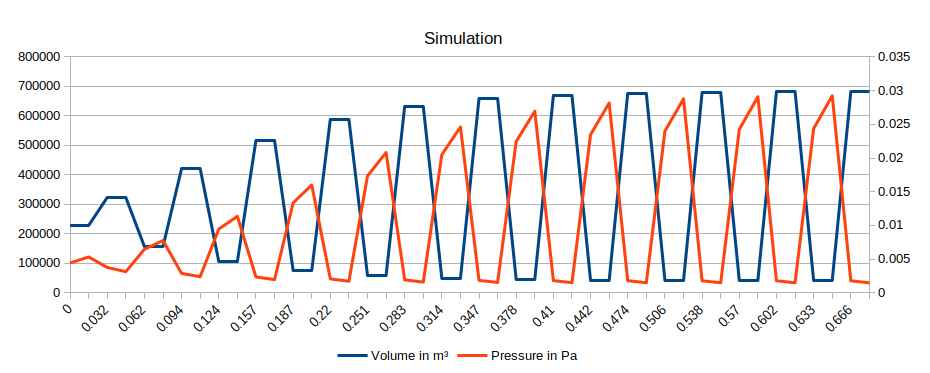
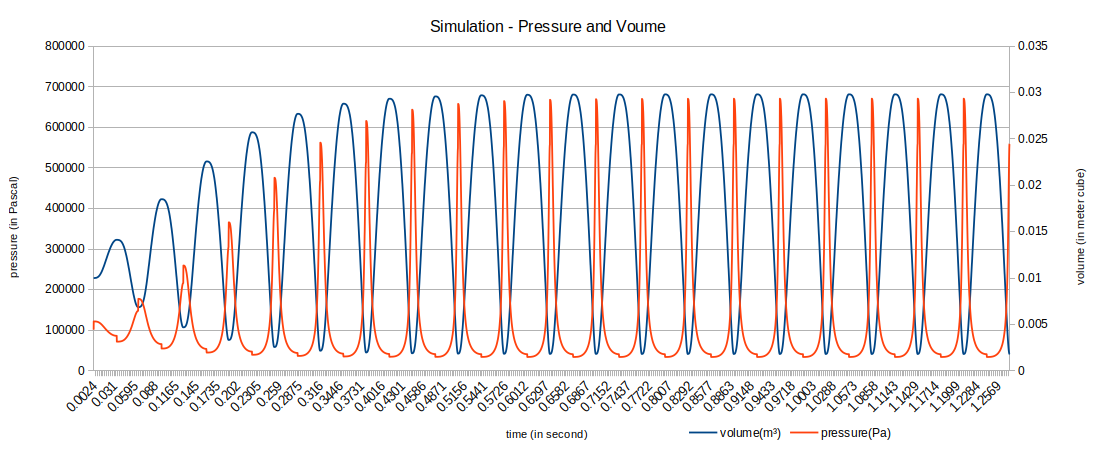
Add print facility in Quasi equilibrium Processes
This print can be enabled from client code when ever needed and disabled
The control for enabling this extra prints is done via setting extern
variable called 'print_quasi_equilibrium_values'.
Additional Quasi equilibrium state's pressure and volume values over
time can be used to plot smooth curve and
also the PV graph for one cycle.

Changed region(s): [[0.0, 0.0295, 0.9978, 0.9732]]

diff --git a/thermodyn_helper.c b/thermodyn_helper.c
@@ -13,6 +13,12 @@
 #define EQUILIBRIUM_PRESSURE 101325       /* Pa or pascal */
 
 /**
+ * Extern variable declarations as follows:
+ */
+char print_quasi_equilibrium_values = 'n';/* By default Quasi-equilibrium PV values are printed.*/
+// Hint: The client code can enable print by setting 'y' and disable again by setting 'n'.
+
+/**
  * Definition of opaque pointer 'device' declared in header file
  */
 struct system_t {			/* SI units are used */
@@ -160,6 +166,11 @@ double compute_time(device gas, double *final_pressure, double *final_volume) {
 		direction = (velocity > 0.0) ? 1 : ((velocity < 0.0) ? -1 : 0);
 		volume = chamber_length * piston->surface_area;
 		pressure = pressure_volume_constant / volume;
+		if('y' == print_quasi_equilibrium_values)
+			printf("%.4lf\t" "%6.5lf\t" "%8.0lf\t" "%11.0lf\t" "%8.3lf\n",
+				gas->time+time, volume, pressure, gas->temperature,
+				gas->workdone);
+
 		time += time_step_size;
 	} while (0 == previous_direction || previous_direction == direction);
 

diff --git a/thermodyn_client.c b/thermodyn_client.c
@@ -25,7 +25,7 @@ int main(int argc, char **argv) {
 
 	/**
 	 * The 'device' type is an opaque pointer,
-	 * followed by init() and uninit() act as interface using the opaque pointer.
+	 * followed by init() and deinit() act as interface using the opaque pointer.
 	 */
 	device gas;
 	init(&gas, GAS_VOLUME, GAS_PRESSURE, GAS_TEMPERATURE);
@@ -36,6 +36,13 @@ int main(int argc, char **argv) {
 	double pressure = get_pressure(gas);
 	double coefficient = 1.2; // 1.2 indicates 20% increase in pressure
 
+	/**
+	 * Following use of extern variable will enable the print of
+	 * Quasi-equilibrium pressure, volume along with time.
+	 * Using this info we can generate a smooth curve of PV plot over time
+	 * displayed on README.md on github page.
+	 */
+	print_quasi_equilibrium_values = 'y';
 	for(int i = 0; i < iterations; ++i) {
 
 		double start_time = get_time(gas);

diff --git a/thermodyn_helper.h b/thermodyn_helper.h
@@ -33,4 +33,7 @@ double get_pressure(const device gas);
 double get_time(const device piston);
 double get_displacement(const device piston);
 
+// Type 5: Global variable's extern declarations
+extern char print_quasi_equilibrium_values;
+
 #endif /* __THERMODYN_HELPER_H__ */
